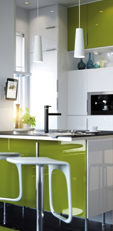
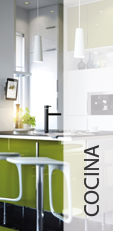
Cambio imágenes

diff --git a/Etapa Componentes/Ayuda/inspiracion.htm b/Etapa Componentes/Ayuda/inspiracion.htm
@@ -54,36 +54,44 @@
 										</h2>
 										<div class="col12 ccol12 acol12 nomargin">
 												<div class="ayudaHabitacion">
+													<a href="">
 													<img src="../RECURSOS/img/cocina.png" />
-													<a href="">Cocina</a>
+													</a>
 												</div>
 												<div class="ayudaHabitacion">
+													<a href="">
 													<img src="../RECURSOS/img/pieza.png" />
-													<a href="">Dormitorio</a>
+													</a>
 												</div>
 												<div class="ayudaHabitacion">
+													<a href="">
 													<img src="../RECURSOS/img/baño.png" />
-													<a href="">Baño</a>
+													</a>
 												</div>
 												<div class="ayudaHabitacion">
+													<a href="">
 													<img src="../RECURSOS/img/guardar.png" />
-													<a href="">Closet</a>
+													</a>
 												</div>
 												<div class="ayudaHabitacion">
+													<a href="">
 													<img src="../RECURSOS/img/jardin.png" />
-													<a href="">Jardín</a>
+													</a>
 												</div>
 												<div class="ayudaHabitacion">
+													<a href="">
 													<img src="../RECURSOS/img/terraza.png" />
-													<a href="">Terraza</a>
+													</a>
 												</div>
 												<div class="ayudaHabitacion">
+													<a href="">
 													<img src="../RECURSOS/img/2loft.png" />
-													<a href="">Loft</a>
+													</a>
 												</div>
 												<div class="ayudaHabitacion">
+													<a href="">
 													<img src="../RECURSOS/img/1living.png" />
-													<a href="">Living</a>
+													</a>
 												</div>
 										</div>
 										<div class="col12 ccol12 acol12 nomargin">

diff --git a/Etapa Componentes/RECURSOS/css/easy_base.css b/Etapa Componentes/RECURSOS/css/easy_base.css
@@ -4065,12 +4065,18 @@ div.namePartPriceContainer > span.sku{
 /* Centro inspiración */
 .ayudaHabitacion{
 	float: left;
-	width: 123px;
+	width: 11.6%;
 	position: relative;
-	margin: 5px;
+	margin: 0.5%;
 	font-weight: 22px;
 	text-transform: uppercase;
 
+}
+
+@media screen and (max-width: 800px){
+	.ayudaHabitacion{
+		width: 24%;
+	}
 }
 
 .ayudaHabitacion:first-child{
@@ -4079,7 +4085,7 @@ div.namePartPriceContainer > span.sku{
 
 .ayudaHabitacion:last-child{
 	margin-right: 0;
-	margin-left: 7px;
+	
 }
 
 .ayudaHabitacion img{
@@ -4087,22 +4093,6 @@ div.namePartPriceContainer > span.sku{
 	position: relative;
 }
 
-
-.ayudaHabitacion a {
- 	-webkit-transform: rotate(-90deg);
-	-moz-transform: rotate(-90deg);
-	-ms-transform: rotate(-90deg);
-	-o-transform: rotate(-90deg);
-	filter: progid:DXImageTransform.Microsoft.BasicImage(rotation=3);
-	background: #fff;
-	color: #000;
-	opacity: 0.8;
-	position: absolute;
-	left: -30px;
-	padding: 15px;
-	top: 101px;
-	width: 224px;
-}
 
 .inspiracion .consejosHeader span{
 	font-size: 18px;
